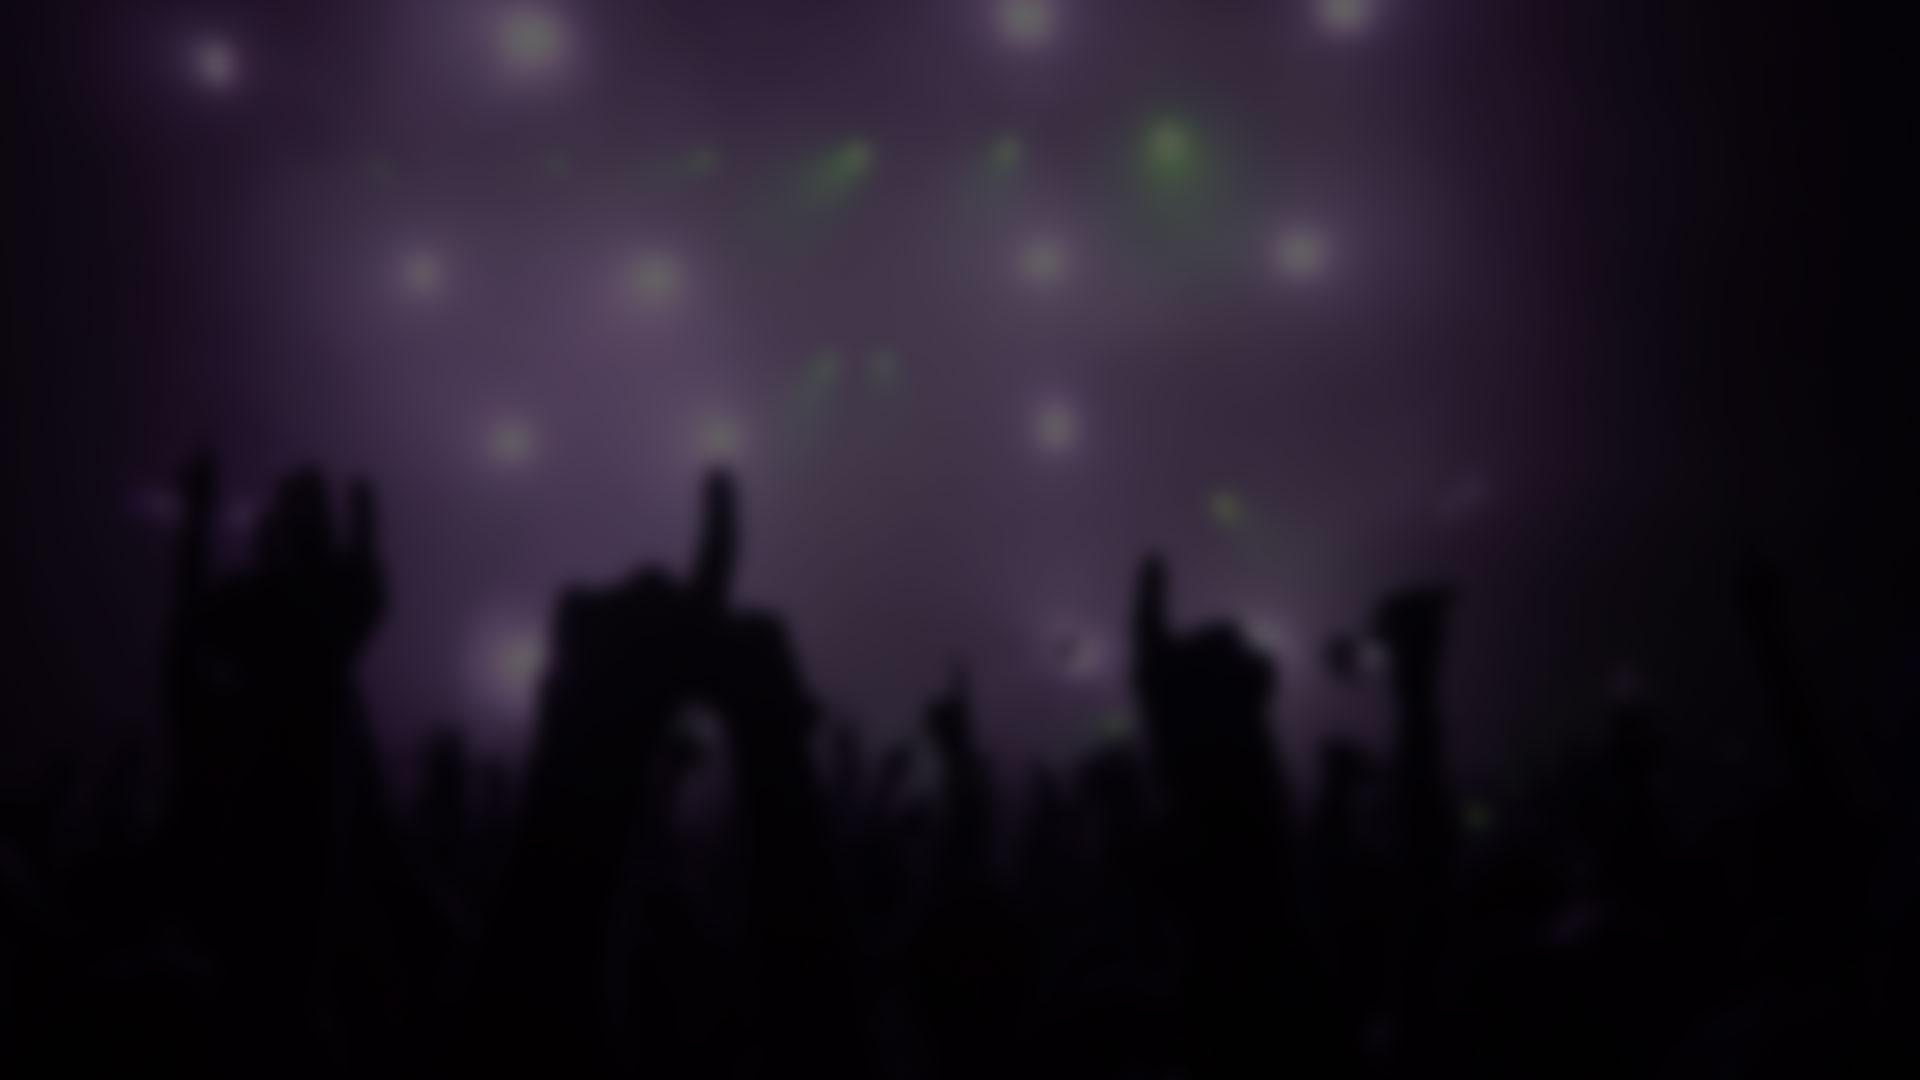
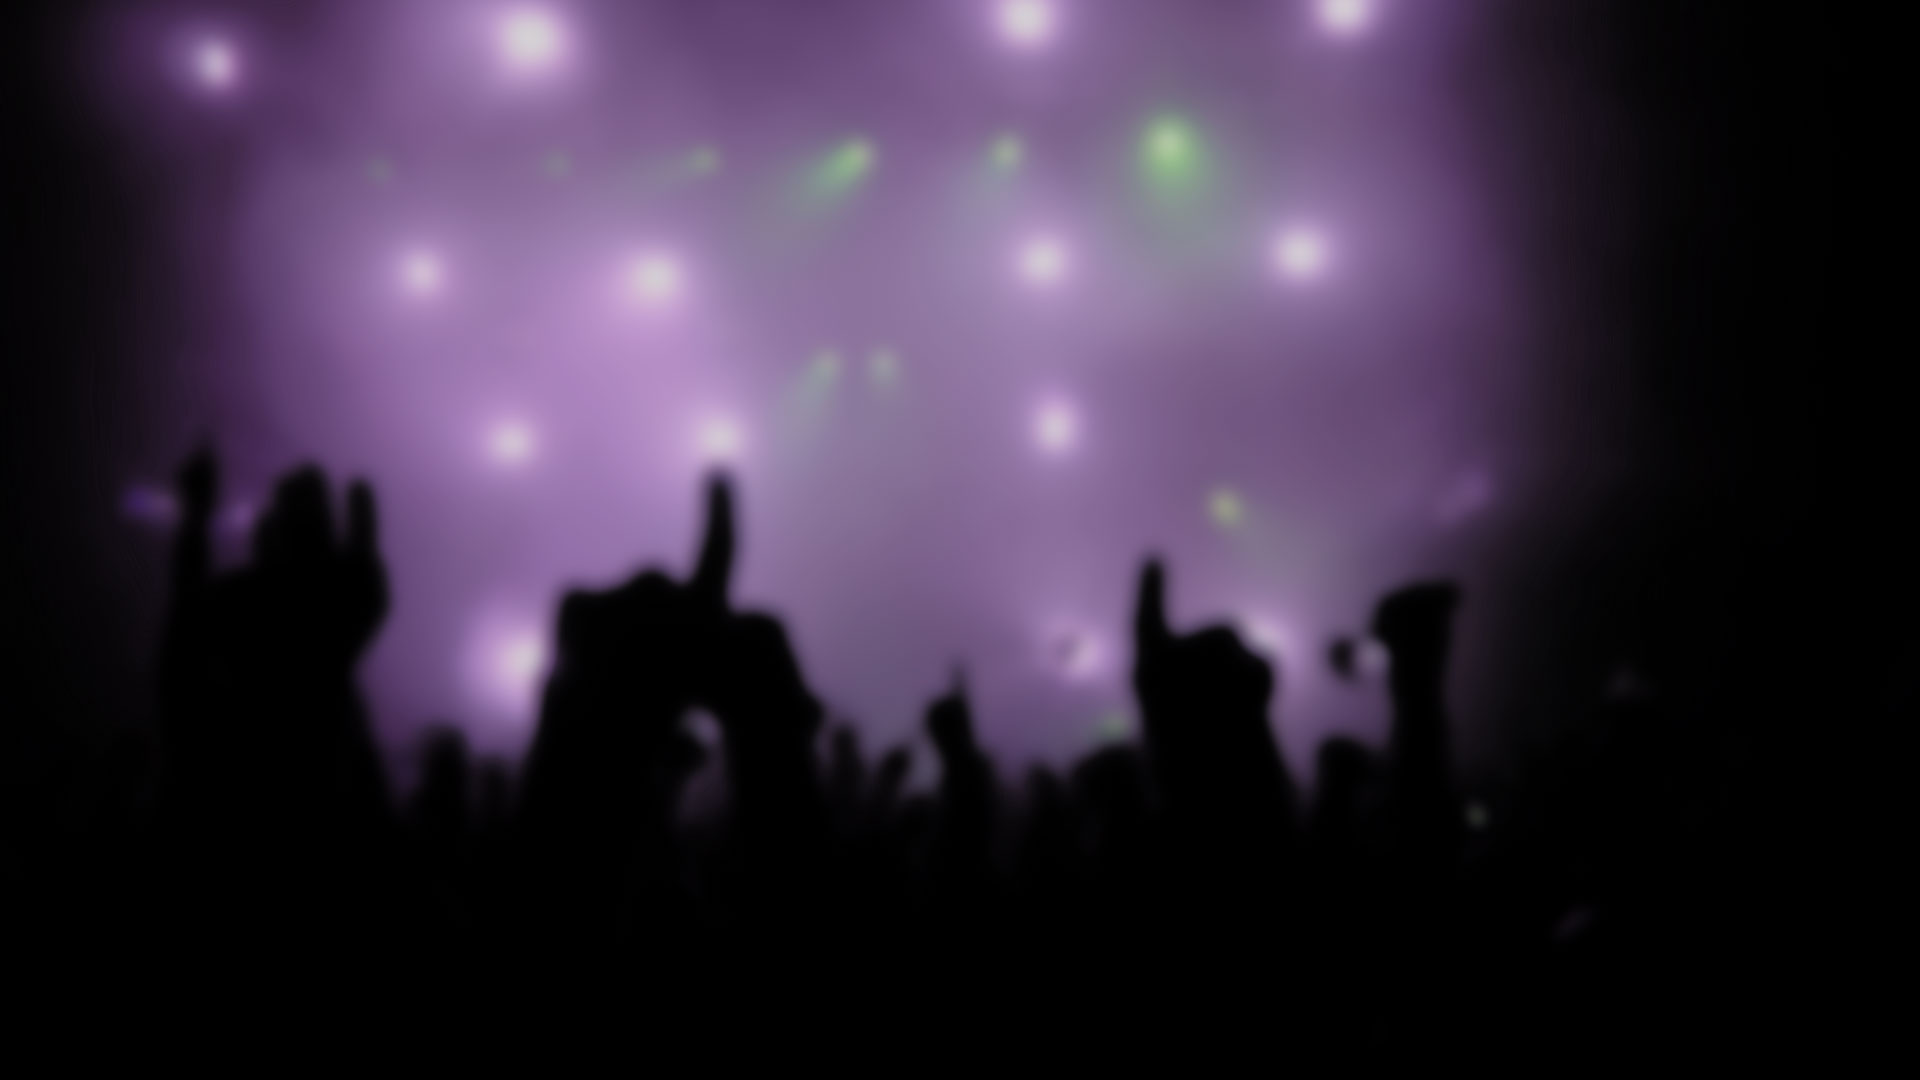
ADDED: media files

diff --git a/public/stylesheets/jplayer.blue.monday.css b/public/stylesheets/jplayer.blue.monday.css
@@ -11,7 +11,7 @@ body {
   min-width: 100%;
   height: 100%;
 
-  background: #000;
+  /*background: #000;*/
 }
 
 li {
@@ -186,7 +186,7 @@ a {
 }
 
 body {
-  
+  background-size: #FFF;
   background: rgba(0,0,0,1) url("../images/music-bg.jpg") repeat;
   background-size: cover;
 
@@ -196,7 +196,7 @@ body {
 .first {
   z-index: -11;
   position:absolute;
-  background: rgba(0, 0, 0, 0);
+  background: rgba(30, 30, 30, 0.6);
   opacity: 1;
   top: 0;
   bottom: 0;
@@ -211,7 +211,7 @@ body {
 .second {
   z-index: -11;
   position:absolute;
-  background: rgba(0, 0, 0, .5);
+  background: rgba(0, 0, 0, .9);
   opacity: 1;
   top: 0;
   bottom: 0;
@@ -227,24 +227,18 @@ body {
 }*/
 
 
-
-.cloudcw {
+.music-fg {
   z-index: -10;
-  position:absolute;
-  background: rgba(0,0,0,1) repeat;
-  background-size: 100%;
-  top: -50%;
-  opacity: .5;
-  bottom: -50%;
-  right: -50%;
-  left: -50%;
+  position: absolute;
+  opacity: 1;
+  top: 0;
+  bottom: 0;
+  left: 0;
+  right: 0;
 
-  
-  -webkit-transition: opacity 3s;
-  -webkit-filter: blur(20px);
-
+  background: rgba(0,0,0,0) url("../images/music-fgr.png");
+  background-size: cover;
 }
-
 
 
 

diff --git a/public/js/transitions.js b/public/js/transitions.js
@@ -3,6 +3,7 @@ var play = document.querySelector(".jp-play");
 var pause = document.querySelector(".jp-pause");
 var stop = document.querySelector(".jp-stop");
 var looping = false;
+var val = 50;
 
 function setup () {
 	play.addEventListener("click", construct, false);
